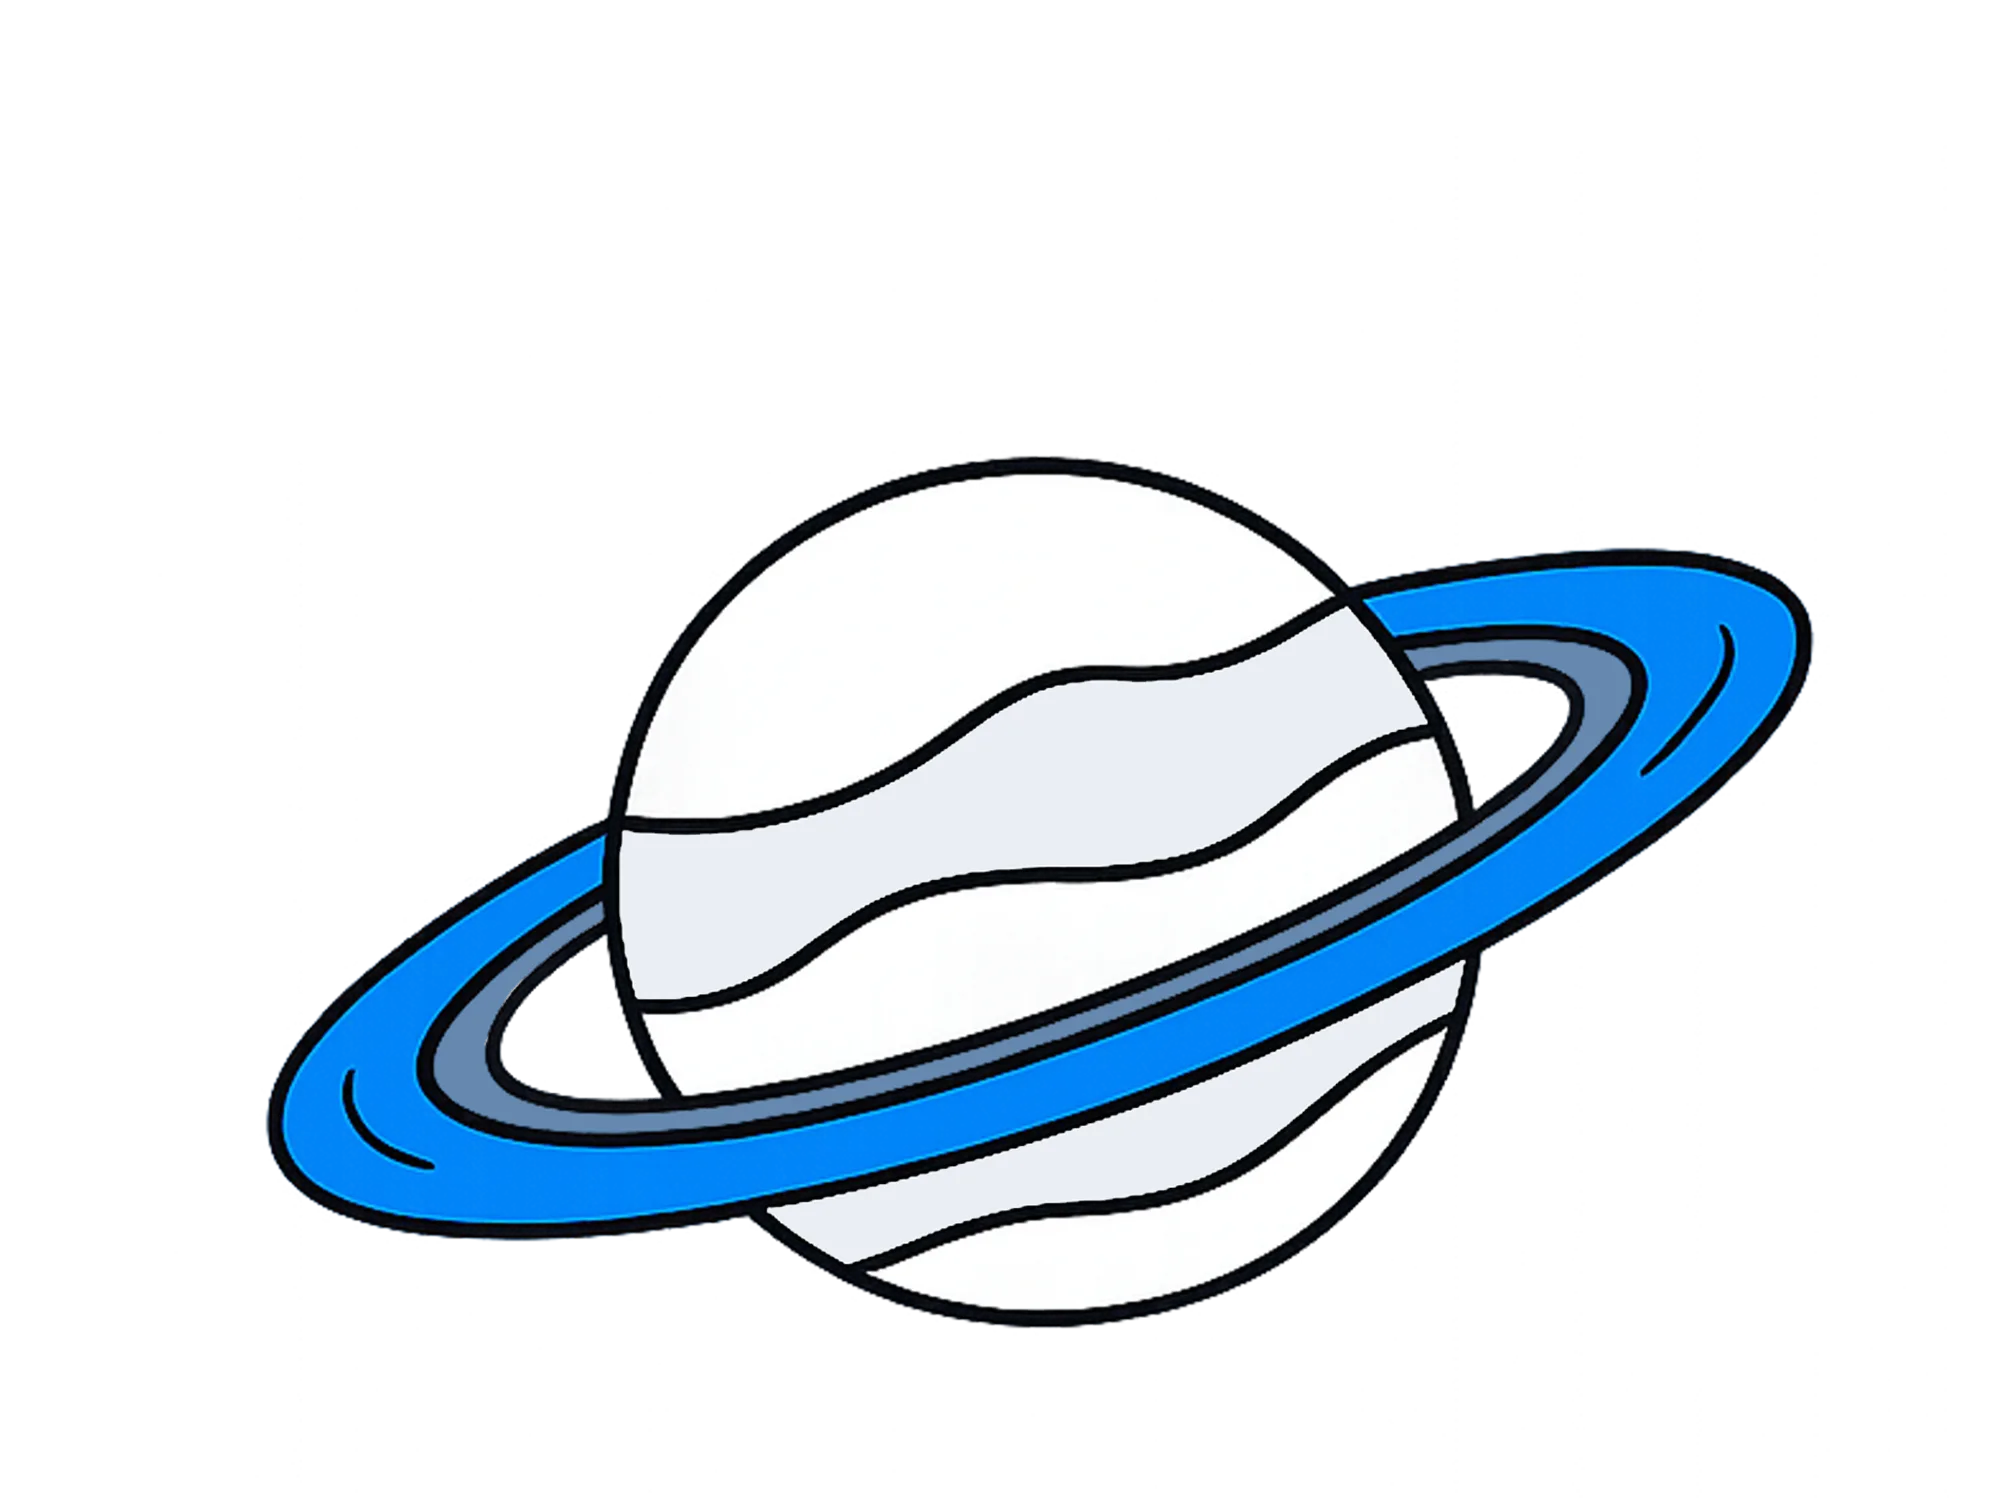
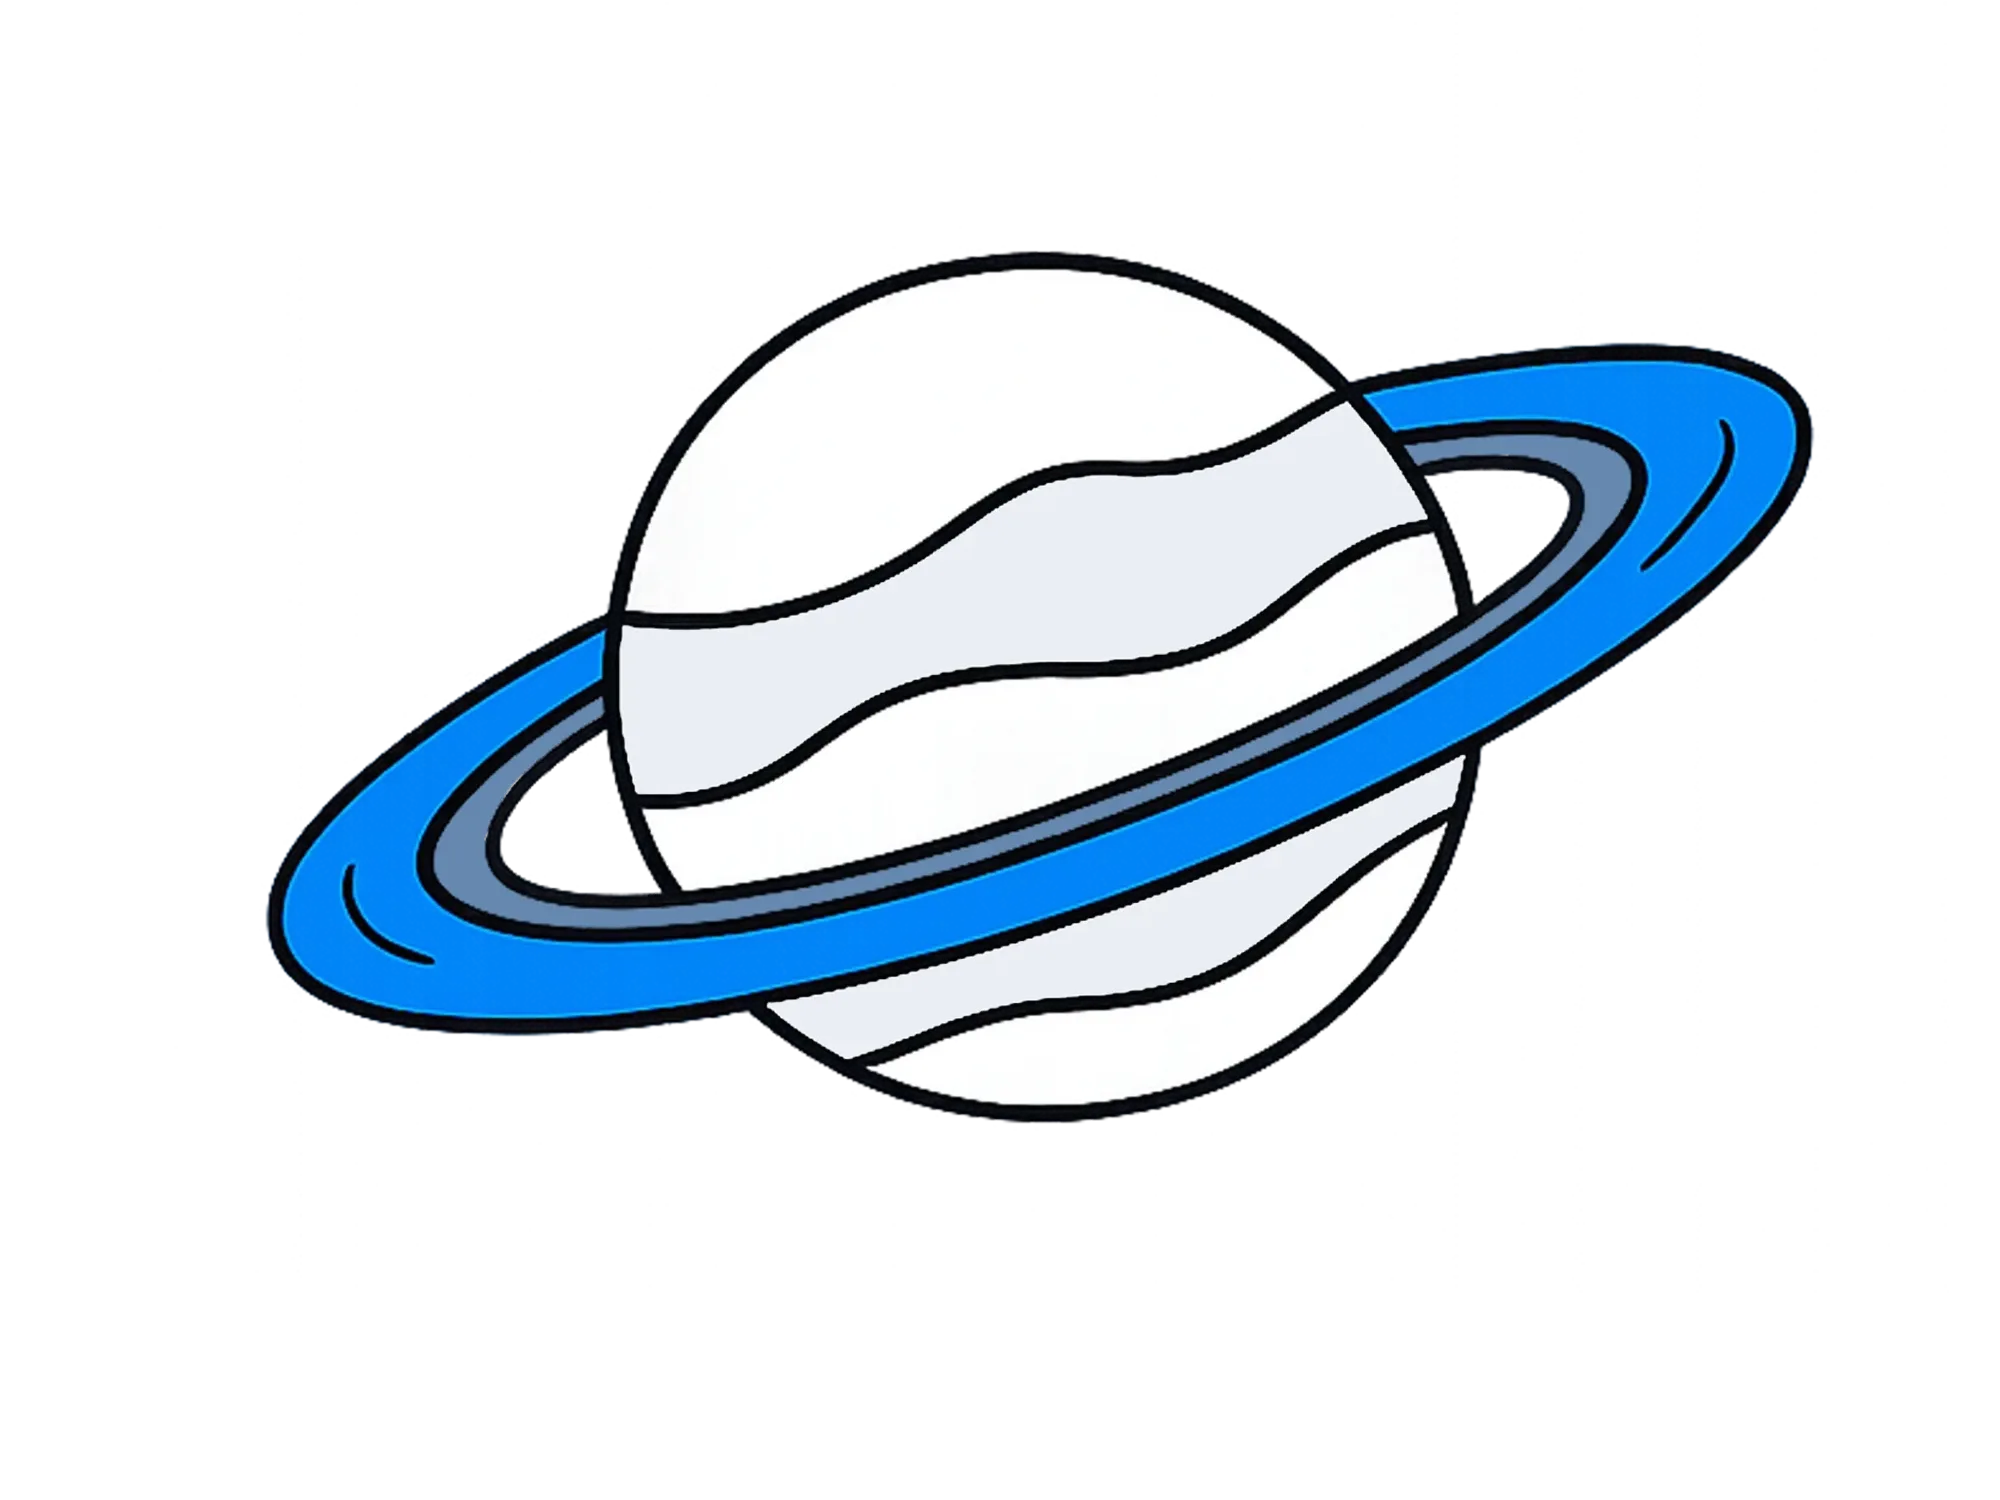
/experiencia: marte en escena Entelgy y saturno actualizado

diff --git a/app/experiencia/page.tsx b/app/experiencia/page.tsx
@@ -117,8 +117,7 @@ const SCENES: Layer[][] = [
     },
   ],
   /* 2 · Entelgy (WebMaster) — frente: ovni; plano medio: marte;
-     fondo: estrellas.
-     TODO: cambiar cuerposselestes.webp por marte.webp cuando exista */
+     fondo: estrellas */
   [
     {
       src: `${ART}/ovni.webp`,
@@ -127,7 +126,7 @@ const SCENES: Layer[][] = [
       style: { bottom: "-4%", right: "2%", width: "min(620px, 46vw)", zIndex: 3 },
     },
     {
-      src: `${ART}/cuerposselestes.webp`,
+      src: `${ART}/martes.webp`,
       cls: "free",
       speed: 0.12,
       style: { top: "14%", left: "10%", width: "clamp(200px, 24vw, 340px)", zIndex: 1, opacity: 0.85 },
